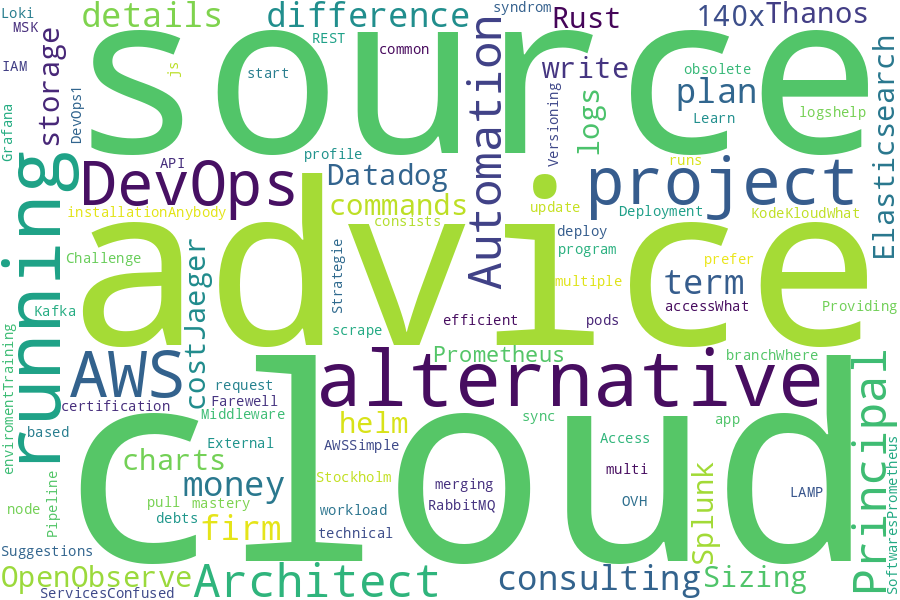
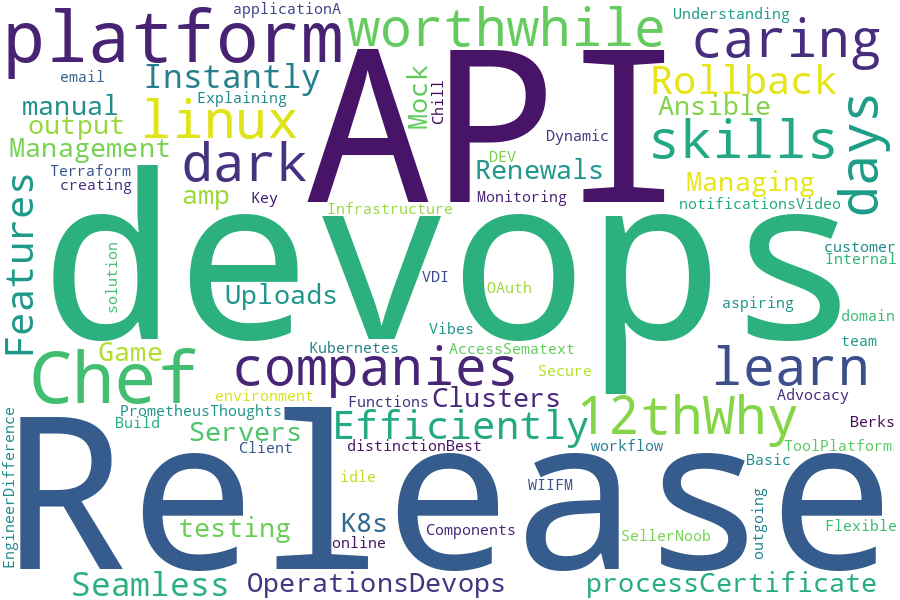
Updated profile.

diff --git a/README.md b/README.md
@@ -44,13 +44,13 @@ Here are some ideas to get you started:
 
 | Title | Author | Score |
 |:---|:---|:---|
-| [I'm a Principal Architect (Cloud/Automation) at a large consulting firm, and I want out. Looking for advice on where to go where I can make a difference, instead of just making someone money. More details inside.](https://www.reddit.com/r/devops/comments/142iyj2/im_a_principal_architect_cloudautomation_at_a/) | huckler | 72 |
-| [What's your long term plan?](https://www.reddit.com/r/devops/comments/142sgwu/whats_your_long_term_plan/) | BrontosaurusB | 53 |
-| [OpenObserve: Open source Elasticsearch/Datadog/Splunk alternative in Rust for logs. 140x lower storage cost](https://www.reddit.com/r/devops/comments/14365yw/openobserve_open_source/) | the_ml_guy | 41 |
-| [Jaeger alternatives?](https://www.reddit.com/r/devops/comments/142hmde/jaeger_alternatives/) | chillysurfer | 7 |
-| [When using helm charts, is there a way to write it down instead of just running the commands?](https://www.reddit.com/r/devops/comments/142vmi0/when_using_helm_charts_is_there_a_way_to_write_it/) | cakemachines | 5 |
-| [Sizing Thanos for large Prometheus installation](https://www.reddit.com/r/devops/comments/142ku8i/sizing_thanos_for_large_prometheus_installation/) | facet1me | 5 |
-| [Anybody running workload on OVH?](https://www.reddit.com/r/devops/comments/142m3hh/anybody_running_workload_on_ovh/) | HappyCathode | 4 |
-| [pull request merging and sync runs Pipeline on source branch](https://www.reddit.com/r/devops/comments/142ygkx/pull_request_merging_and_sync_runs_pipeline_on/) | run-as-admin | 3 |
-| [Where to start?](https://www.reddit.com/r/devops/comments/1430thq/where_to_start/) | mlYuna | 3 |
-| [Versioning advice for a project that consists of multiple projects.](https://www.reddit.com/r/devops/comments/142svdr/versioning_advice_for_a_project_that_consists_of/) | lunarsoap5 | 3 |
+| [/r/devops will be going dark on the 12th](https://www.reddit.com/r/devops/comments/143jc6m/rdevops_will_be_going_dark_on_the_12th/) | mthode | 604 |
+| [Why are companies caring less and less about linux skills these days? Do you think it's still worthwhile to learn?](https://www.reddit.com/r/devops/comments/143x53t/why_are_companies_caring_less_and_less_about/) | yeahdude78 | 21 |
+| [Efficiently Release Features and Rollback Instantly with Seamless Operations](https://www.reddit.com/r/devops/comments/143vr12/efficiently_release_features_and_rollback/) | deleteLaterRe | 19 |
+| [Devops and Game Servers?](https://www.reddit.com/r/devops/comments/143oedg/devops_and_game_servers/) | Cevap | 4 |
+| [Managing a manual release process](https://www.reddit.com/r/devops/comments/143hipw/managing_a_manual_release_process/) | BigRedS | 2 |
+| [Certificate Management - Renewals &amp; Uploads to K8s Clusters (via Ansible??)](https://www.reddit.com/r/devops/comments/1446s9d/certificate_management_renewals_uploads_to_k8s/) | Mountain_Ad_1548 | 2 |
+| [API Mock or testing with output to Prometheus](https://www.reddit.com/r/devops/comments/14429bu/api_mock_or_testing_with_output_to_prometheus/) | surpyc | 2 |
+| [Thoughts on CI/CD workflow for small team creating an online web application](https://www.reddit.com/r/devops/comments/1440toe/thoughts_on_cicd_workflow_for_small_team_creating/) | adrenaline681 | 1 |
+| [A customer wants our platform to use their domain for outgoing email notifications](https://www.reddit.com/r/devops/comments/143hrk0/a_customer_wants_our_platform_to_use_their_domain/) | pppreddit | 1 |
+| [Video: Kubernetes 1.27 Chill Vibes - WIIFM (What's In It For Me/You)](https://www.reddit.com/r/devops/comments/143duo2/video_kubernetes_127_chill_vibes_wiifm_whats_in/) | iam_the_good_guy | 0 |
